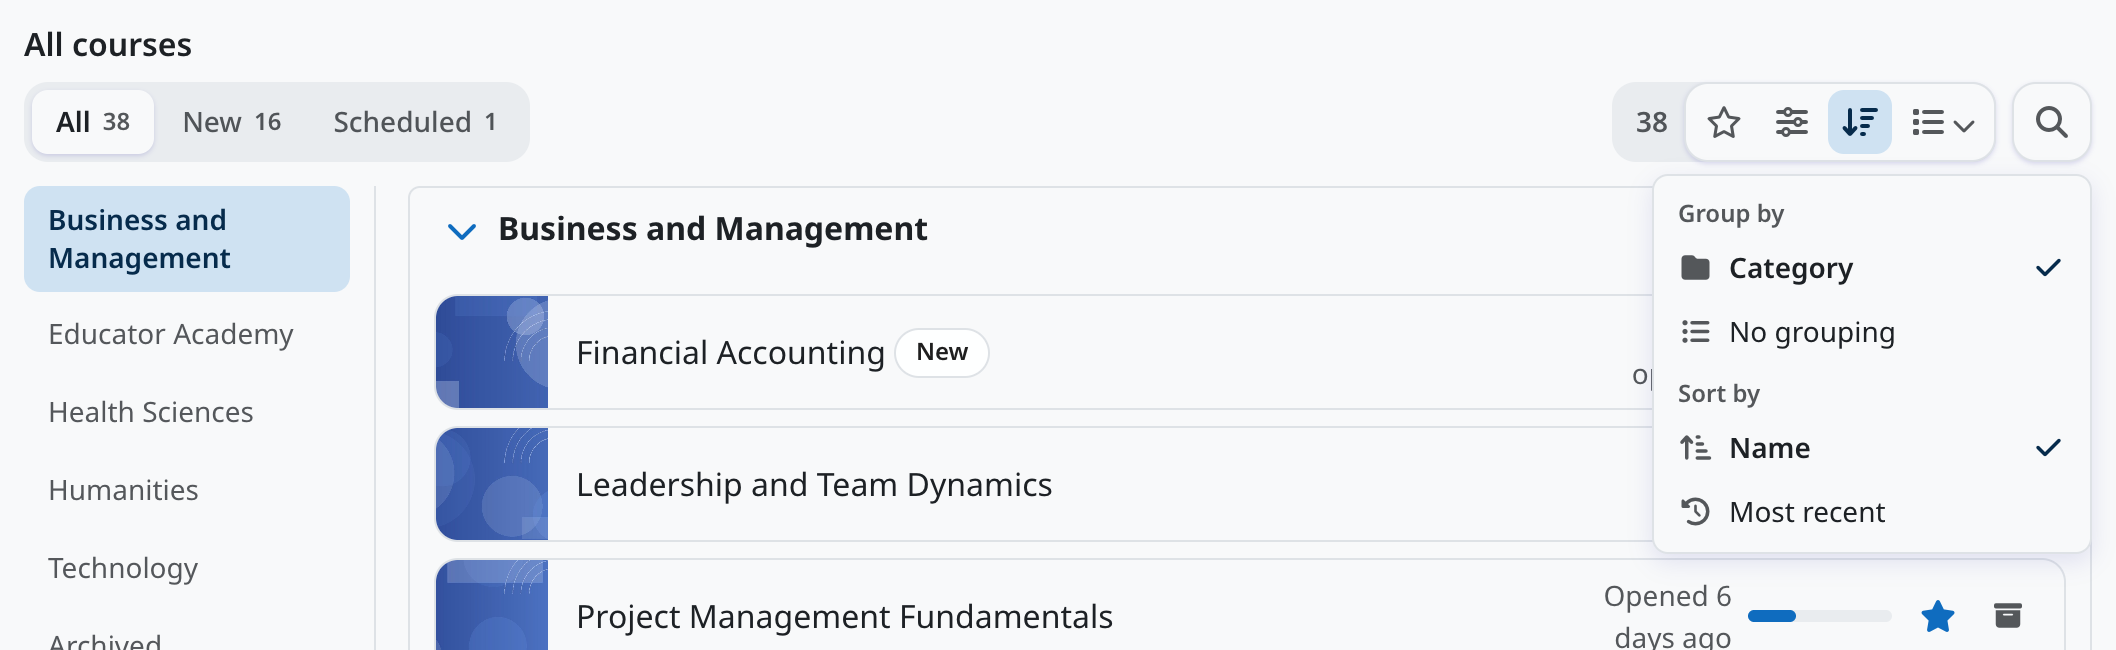
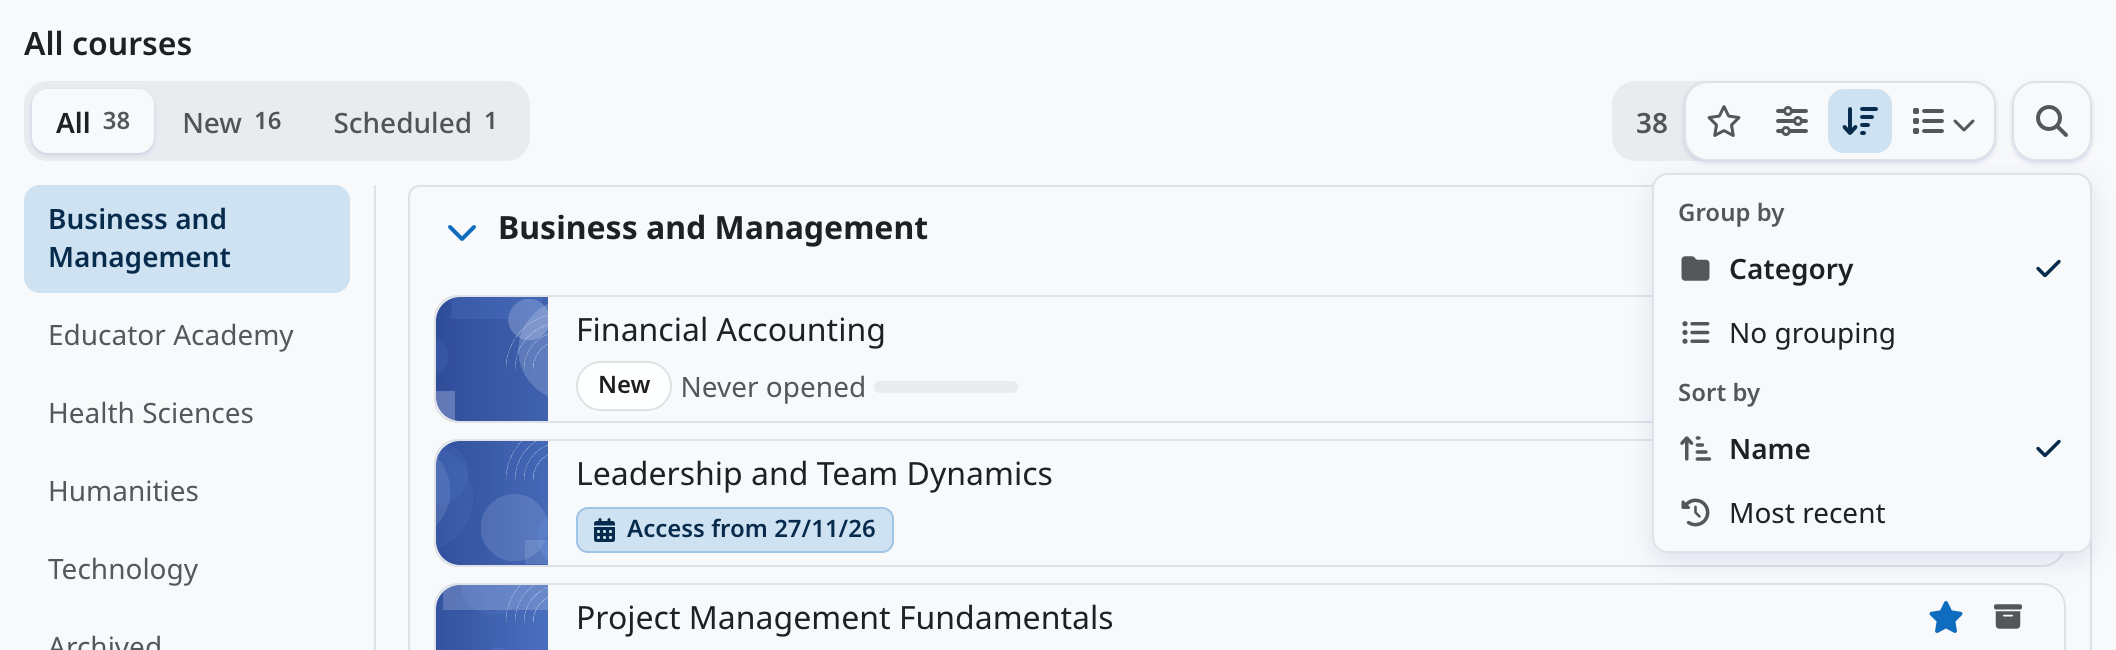
Docs: the list view's screenshots show the two-line rows, 5.2 [skip ci]
Seven pictures of tier 3's list retaken on the demo site after ADR-026, and the four
captions that describe the rows.

(cherry picked from commit e46d988132399882eaf936d476776934c171dc12)

diff --git a/README.md b/README.md
@@ -145,7 +145,7 @@ the cards always paint first.
 All courses and the Compass page
 --------------------------------
 
-![All courses on the Compass page: the filter bar on one row (the scope with its counts, the result count, the star, Filters, Organise and the list/cards menu, and the search icon), the category index with the open group's link tinted and Archived last, and the first group open as a list](docs/screenshots/explore.png)
+![All courses on the Compass page: the filter bar on one row (the scope with its counts, the result count, the star, Filters, Organise and the list/cards menu, and the search icon), the category index with the open group's link tinted and Archived last, and the first group open as a list of two-line rows (the name, with the star and the archive, then the chips, the state, the date and the progress bar)](docs/screenshots/explore.png)
 
 *All courses* opens from the ghost card or from a strip's "+N" link. The ghost is there whenever
 *All courses* has something tier 1 does not show, its *Hidden* and *Archived* groups included: a
@@ -194,13 +194,13 @@ scope on a line of its own under the controls, its choices sharing the width (a 
 drawer, a narrow column). There, while the search is open, its field takes the first line. The chips
 wrap to further lines rather than scrolling.
 
-![All courses on the Dashboard, a search and a filter in force: only All with its count of 3, the result count, the star, Filters with a badge of 1, Organise, View and the search icon; under it the chips instruction and Hybrid with Clear all, and the three courses left](docs/screenshots/explore-filtered.png)
+![All courses on the Dashboard, a search and a filter in force: only All with its count of 3, the result count, the star, Filters with a badge of 1, Organise, View and the search icon; under it the chips instruction and Hybrid with Clear all, and the three courses left as two-line rows](docs/screenshots/explore-filtered.png)
 
-![All courses on the Dashboard at 500 px, the narrow step: the result count, the star, Filters, Organise, View and the search icon on the first line, the scope on a line of its own after them](docs/screenshots/explore-narrow.png)
+![All courses on the Dashboard at 500 px, the narrow step: the result count, the star, Filters, Organise, View and the search icon on the first line, the scope on a line of its own after them, the group's rows two lines each](docs/screenshots/explore-narrow.png)
 
 At the narrow step the Filters panel opens as a bottom sheet:
 
-![All courses on a phone with Filters pressed: the panel as a bottom sheet with the Modality and Level values, Clear filters and Show 38](docs/screenshots/explore-phone.png)
+![All courses on a phone with Filters pressed: the panel as a bottom sheet with the Modality and Level values, Clear filters and Show 38, the list rows above it two lines each](docs/screenshots/explore-phone.png)
 
 **Pointing at a filter previews it.** A mouse or a pen on a scope, the star, a panel value or a
 suggestion, or the keyboard's focus on one, rings the courses on screen that it would keep,
